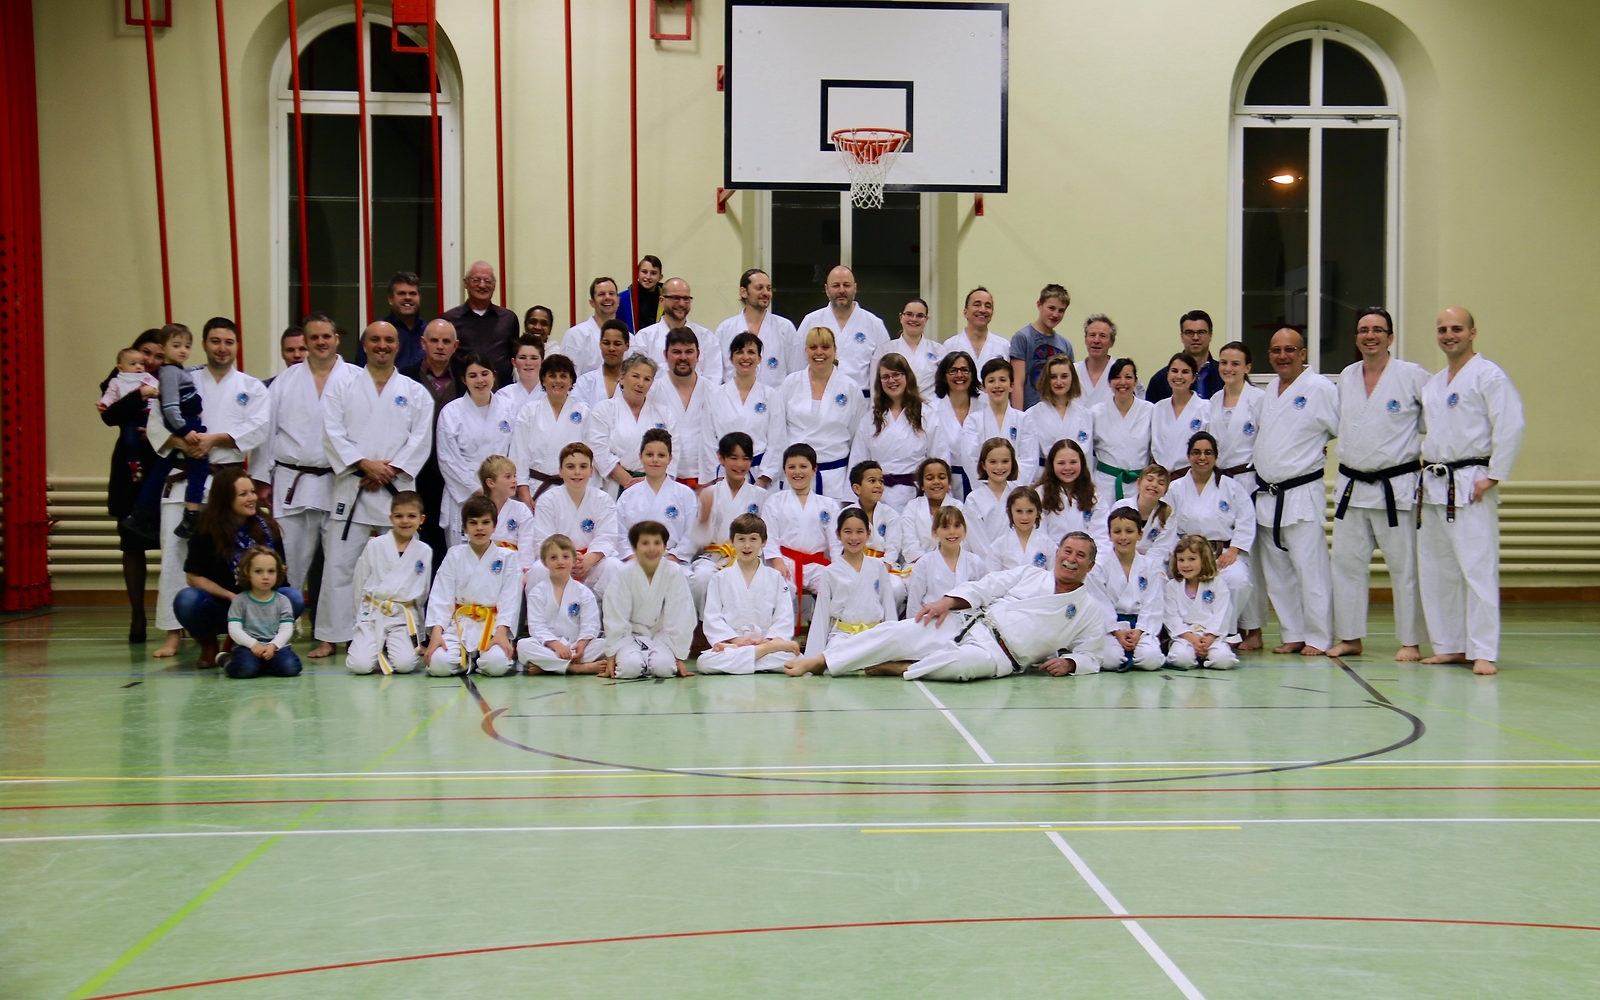
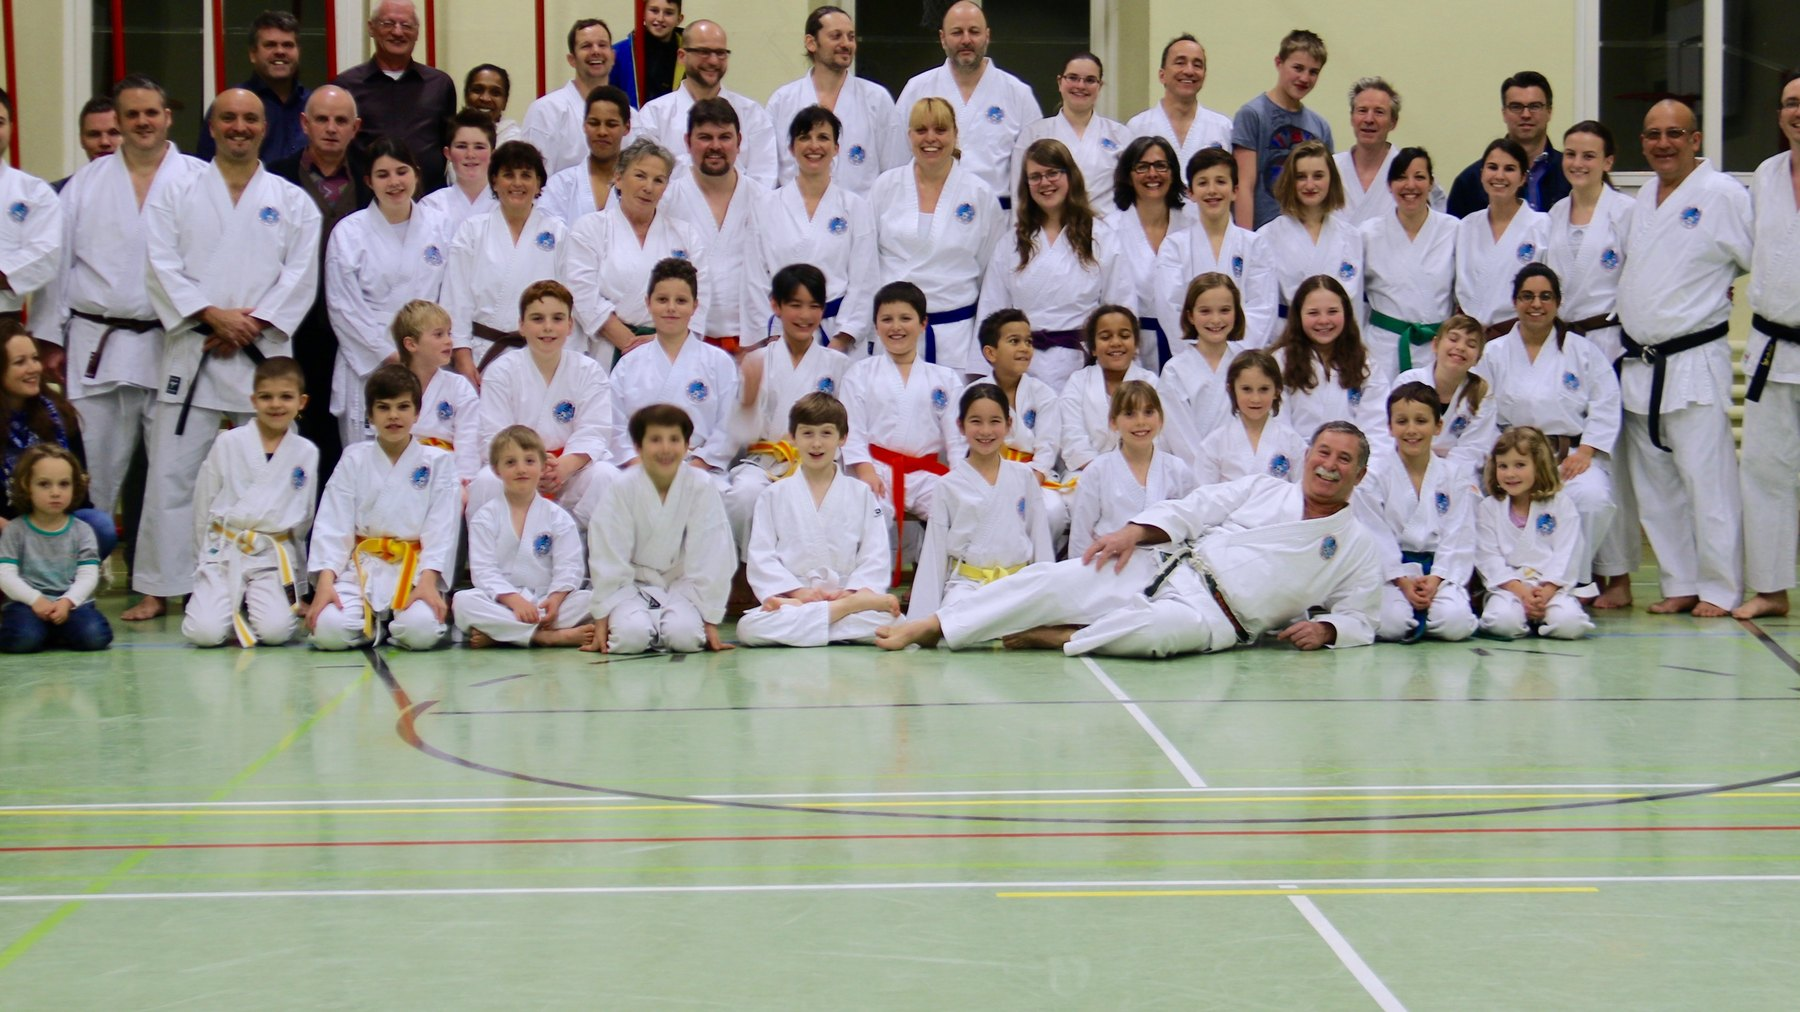
Titelseite: Gesichter im Ausschnitt, Sensei nach links, Karte volle Höhe
Die Startseitenfotos sind neu auf die Gesichter zugeschnitten, das Seiza-Bild ist gespiegelt. Die Dojo-Karte füllt in der Desktop-Ansicht die Höhe des linken Blocks.

diff --git a/src/index.html b/src/index.html
@@ -45,7 +45,7 @@
             src="./media/home/seiza.jpg"
             alt="Seiza im Dojo Lind Nord: Senseis und Karatekas knien in der Turnhalle"
             width="1600"
-            height="1000"
+            height="1280"
           />
         </div>
       </section>
@@ -58,7 +58,7 @@
           </div>
           <div class="grid-3">
             <article class="card">
-              <img class="card-media" src="./media/home/familie-training.jpg" alt="Kinder und Erwachsene trainieren gemeinsam im Dojo" width="900" height="900" />
+              <img class="card-media crop-familie" src="./media/home/familie-training.jpg" alt="Kinder und Erwachsene trainieren gemeinsam im Dojo" width="1200" height="900" />
               <p class="meta">Wer wir sind</p>
               <h3>Ein Club für die ganze Familie</h3>
               <p>
@@ -68,7 +68,7 @@
               </p>
             </article>
             <article class="card">
-              <img class="card-media" src="./media/home/kinder-training.jpg" alt="Kinder und Sensei beim gemeinsamen Gyaku-Zuki" width="900" height="900" />
+              <img class="card-media crop-kinder" src="./media/home/kinder-training.jpg" alt="Kinder und Sensei beim gemeinsamen Gyaku-Zuki" width="1200" height="900" />
               <p class="meta">Was wir anbieten</p>
               <h3>Training, Lager, Anlässe</h3>
               <p>
@@ -78,7 +78,7 @@
               </p>
             </article>
             <article class="card">
-              <img class="card-media" src="./media/home/sensei-gruppe.jpg" alt="Fünf Senseis des Karate-Club 3K im Gi" width="900" height="900" />
+              <img class="card-media crop-sensei" src="./media/home/sensei-gruppe.jpg" alt="Fünf Senseis des Karate-Club 3K im Gi" width="1200" height="900" />
               <p class="meta">Unsere Senseis</p>
               <h3>Ein engagiertes Lehrerteam</h3>
               <p>
@@ -115,13 +115,15 @@
               </div>
             </div>
           </div>
-          <iframe
-            class="map-embed"
-            title="Karte Turnhalle Lind Nord Winterthur"
-            loading="lazy"
-            referrerpolicy="no-referrer-when-downgrade"
-            src="https://www.openstreetmap.org/export/embed.html?bbox=8.717%2C47.494%2C8.733%2C47.504&amp;layer=mapnik&amp;marker=47.4992%2C8.7252"
-          ></iframe>
+          <div class="map-frame">
+            <iframe
+              class="map-embed"
+              title="Karte Turnhalle Lind Nord Winterthur"
+              loading="lazy"
+              referrerpolicy="no-referrer-when-downgrade"
+              src="https://www.openstreetmap.org/export/embed.html?bbox=8.717%2C47.494%2C8.733%2C47.504&amp;layer=mapnik&amp;marker=47.4992%2C8.7252"
+            ></iframe>
+          </div>
         </div>
       </section>
 
@@ -146,11 +148,11 @@
             <a class="partner" href="leitbild.html">Dojo Kun</a>
           </div>
           <img
-            class="photo vorstand-photo mt-grid"
+            class="photo photo-wide mt-grid"
             src="./media/home/gruppenfoto.jpg"
             alt="Gruppenfoto des Karate-Club 3K in der Turnhalle Lind Nord"
-            width="1600"
-            height="1000"
+            width="1800"
+            height="1012"
           />
         </div>
       </section>

diff --git a/src/css/styles.css b/src/css/styles.css
@@ -242,8 +242,10 @@ a:hover {
 
 .hero-photo {
   width: 100%;
-  height: min(34rem, 72vh);
+  height: auto;
+  aspect-ratio: 5 / 4;
   object-fit: cover;
+  object-position: 62% 38%;
   border-radius: 28px;
   box-shadow: var(--shadow);
 }
@@ -262,15 +264,30 @@ a:hover {
 .card-media,
 .album img,
 .news-card img {
-  height: 12.5rem;
+  aspect-ratio: 4 / 3;
+  height: auto;
+  object-position: 50% 22%;
   border-radius: 14px 14px 0 0;
   margin: -1.35rem -1.4rem 1rem;
   width: calc(100% + 2.8rem);
   max-width: none;
 }
 
+.card-media.crop-familie {
+  object-position: 50% 28%;
+}
+
+.card-media.crop-kinder {
+  object-position: 42% 12%;
+}
+
+.card-media.crop-sensei {
+  object-position: 50% 6%;
+}
+
 .sensei img {
   height: 16rem;
+  object-position: 50% 12%;
   border-radius: 14px;
   margin-bottom: 1rem;
 }
@@ -280,7 +297,17 @@ a:hover {
   border-radius: var(--radius);
   margin-bottom: 1.2rem;
   object-fit: cover;
+  object-position: 50% 40%;
   max-height: 28rem;
+}
+
+.photo-wide {
+  width: 100%;
+  aspect-ratio: 16 / 9;
+  height: auto;
+  max-height: none;
+  object-fit: cover;
+  object-position: 50% 42%;
 }
 
 .partner img {
@@ -448,6 +475,7 @@ a:hover {
 
 .grid-2 {
   grid-template-columns: 1.1fr 0.9fr;
+  align-items: stretch;
 }
 
 .card,
@@ -496,12 +524,30 @@ a:hover {
   color: var(--maroon);
 }
 
-.map-embed {
+.map-frame {
+  position: relative;
   min-height: 280px;
+  align-self: stretch;
+  border-radius: var(--radius);
+  overflow: hidden;
+  background: var(--paper-3);
+}
+
+.map-embed {
+  display: block;
+  width: 100%;
+  height: 280px;
   border: 0;
   border-radius: var(--radius);
-  width: 100%;
   background: var(--paper-3);
+}
+
+@media (min-width: 921px) {
+  .map-embed {
+    position: absolute;
+    inset: 0;
+    height: 100%;
+  }
 }
 
 .partners {
@@ -702,7 +748,6 @@ address {
   }
 
   .hero-photo {
-    height: 18rem;
     order: -1;
   }
 

diff --git a/docs/FOTOS.md b/docs/FOTOS.md
@@ -1,0 +1,74 @@
+# Welche Fotos fehlen?
+
+Abgleich der **öffentlichen** Wix-Seite `kc3k.ch` (Stand 30. August 2026) mit diesem Repo. Der Wix-Editor selbst ist ohne Login nicht erreichbar — Dateien, die nur dort liegen und nie veröffentlicht wurden, können wir nicht auflisten.
+
+## Titelseite — vollständig
+
+Alle fünf Vereinsfotos der Wix-Startseite sind da, neu auf die Gesichter zugeschnitten:
+
+| Wix-Original | Datei hier |
+| --- | --- |
+| Training-313 (Seiza) | `public/media/home/seiza.jpg` (horizontal gespiegelt, Sensei schaut nach links) |
+| Training-02 | `public/media/home/familie-training.jpg` |
+| Training-03 | `public/media/home/kinder-training.jpg` |
+| Training-247 (fünf Senseis) | `public/media/home/sensei-gruppe.jpg` |
+| Karate – Giusi – 4 von 25 (Gruppenfoto) | `public/media/home/gruppenfoto.jpg` |
+
+Partnerlogos J+S, SKR und Swiss Olympic sind übernommen. Die Wix-Karten-Grafik «Google Maps» fehlt absichtlich — stattdessen ist eine OpenStreetMap-Karte eingebettet.
+
+## Team — vollständig
+
+Die sechs Sensei-Porträts und das Vorstandsfoto von der Wix-Teamseite sind unter `public/media/team/` vorhanden.
+
+## Infos — zwei Grafiken fehlen
+
+| Wix-Datei | Status |
+| --- | --- |
+| Training-50, Kerenzerberg 2018, DSC01087, Training-499 | vorhanden unter `public/media/infos/` |
+| `statuten-200x200.jpg` | **fehlt** — auf Wix eine Kachel-Grafik «Statuten», hier nur Text |
+| `become-a-sponsor.png` | **fehlt** — auf Wix eine Sponsor-Grafik, hier nur Text |
+
+## Leitbild — drei Trainingsfotos fehlen
+
+Auf Wix stehen sechs Fotos, hier drei:
+
+| Wix-Datei | Status |
+| --- | --- |
+| Training-01, Training-07, Training-08 | vorhanden (`shin.jpg`, `gi.jpg`, bzw. analog genutzt) |
+| `Andre in action.jpg` | **fehlt** |
+| `KC3K - Training-19.jpg` | **fehlt** |
+| `Karate - Giusi - 4 von 25.jpg` | nicht extra abgelegt — dasselbe Gruppenfoto wie auf der Titelseite |
+
+## News — keine zusätzlichen Wix-Fotos
+
+Die Beiträge 89–92 verlinken auf Google-Drive-PDFs und haben auf Wix kein eigenes Beitragsfoto. `4-dan.jpg` und `lager-2023.jpg` sind die beiden älteren News-Bilder und liegen unter `public/media/news/`.
+
+## Galerie — nur Titelbilder, keine Alben
+
+Die sieben Alben der Wix-Galerie haben hier **je ein Cover**. Der Rest jedes Albums fehlt:
+
+| Album | Cover hier | Was fehlt |
+| --- | --- | --- |
+| Karate-Lager 2019 | `lager-2019.jpg` | alle weiteren Lagerfotos |
+| Turnier Dagmarsellen 2019 | `dagmarsellen-2019.jpg` | restliche Turnierfotos |
+| Herbstturnier SKR 2018 | `herbstturnier-2018.jpg` | restliche Turnierfotos |
+| Jahresfest 2018 | `jahresfest-2018.jpg` | restliche Festfotos |
+| Trainingslager Kerenzerberg 2018 | `kerenzerberg-2018.jpg` | restliche Lagerfotos |
+| Winti-Cup 2018 | `winti-cup-2018.jpg` | restliche Cup-Fotos |
+| Kata, Giuseppe Lucchena | `kata-lucchena.jpg` | restliche Kata-Serie («Giusi, n von 25») |
+
+Wix zeigt öffentlich nur die Cover; die Album-Inhalte sitzen in der Wix-Galerie (Editor oder eingeloggte Ansicht). Ohne Export aus dem Editor oder neue Dateien vom Vorstand können wir die Alben nicht füllen.
+
+## FAQ
+
+TWINT-QR ist vorhanden. Instagram- und Facebook-Icons der Wix-Seite fehlen bewusst — die neue Seite verlinkt die Netzwerke nicht in der Fusszeile.
+
+## Was der Vorstand zusätzlich liefern sollte
+
+Nicht auf der öffentlichen Wix-Seite, aber für eine vollständige Migration nötig:
+
+- Inhalt der sieben Fotoalben (oder ein Export aus dem Wix-Editor)
+- Aktuelle Lager- und Turnierfotos der letzten Jahre
+- Offizielle Anmelde-PDFs (Aktiv / Passiv)
+- Statuten-PDF, falls es öffentlich werden soll
+- Neuere Vorstandsfotos, falls das bestehende ersetzt werden soll

diff --git a/docs/MIGRATION.md b/docs/MIGRATION.md
@@ -43,7 +43,9 @@ Redirect 301 /news-1 /infos.html
 
 ## Medien
 
-Wix-Bilder liegen unter `static.wixstatic.com`. Für den Dauerbetrieb gehören sie ins Repository (`public/galerie/…`) oder in einen Ordner auf dem Plesk-Webspace. Hotlinking auf Wix nach der Kündigung vermeiden.
+Die öffentlichen Vereinsfotos liegen unter `public/media/`. Was gegenüber Wix noch fehlt (Alben-Inhalte, zwei Infos-Grafiken, drei Leitbild-Fotos), steht in [FOTOS.md](FOTOS.md).
+
+Wix-Originale nicht nach der Kündigung weiter per Hotlink nutzen.
 
 ## Go-Live-Checkliste
 

diff --git a/README.md b/README.md
@@ -46,6 +46,7 @@ npm run preview  # Produktionsbuild lokal ansehen
 - [Hosting](docs/HOSTING.md) — kreativmedia / Plesk, Domain, Mail
 - [GitHub](docs/GITHUB.md) — Tests, Pages, Deployment für den Vorstand
 - [Migration](docs/MIGRATION.md) — Schnitt von Wix nach kc3k.ch
+- [Fotos](docs/FOTOS.md) — welche Wix-Bilder schon da sind und was noch fehlt
 
 ## Lizenz
 
